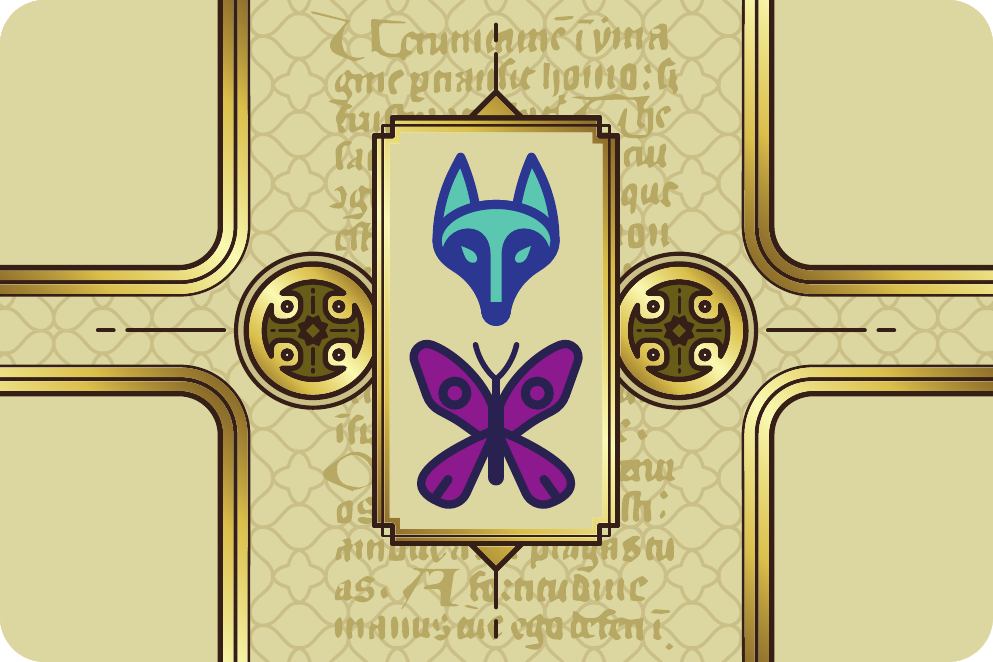
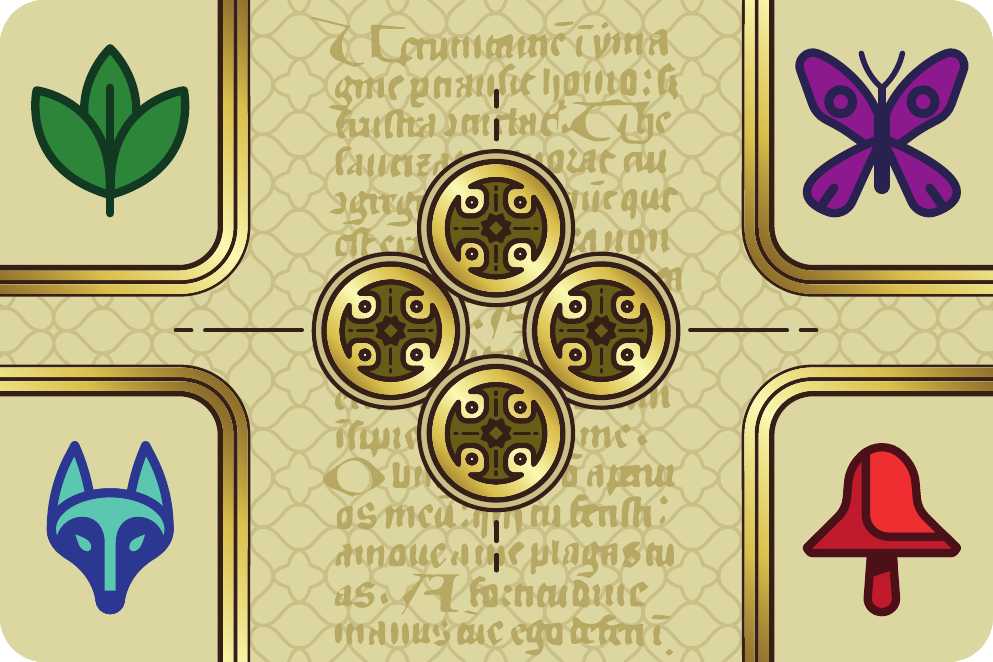
Slightly improved GUI graphics (centered field contained in ScrollPane, made openCorners transparent) and added graphics for chat (ugly, but working). Inverted images for front and back of InitialCards and fixed a little bug in passing inHandPosition parameter to placeCard commands

diff --git a/src/main/java/it/polimi/ingsw/gc12/Client/ClientView/GUI/GUIView.java b/src/main/java/it/polimi/ingsw/gc12/Client/ClientView/GUI/GUIView.java
@@ -7,6 +7,7 @@ import it.polimi.ingsw.gc12.Model.ClientModel.ClientCard;
 import it.polimi.ingsw.gc12.Model.ClientModel.ClientGame;
 import it.polimi.ingsw.gc12.Model.ClientModel.ClientPlayer;
 import it.polimi.ingsw.gc12.Model.GameLobby;
+import it.polimi.ingsw.gc12.Model.Player;
 import it.polimi.ingsw.gc12.Utilities.GenericPair;
 import it.polimi.ingsw.gc12.Utilities.Side;
 import it.polimi.ingsw.gc12.Utilities.Triplet;
@@ -27,6 +28,7 @@ import javafx.scene.layout.AnchorPane;
 import javafx.scene.layout.HBox;
 import javafx.scene.layout.StackPane;
 import javafx.scene.layout.VBox;
+import javafx.scene.paint.Color;
 import javafx.scene.shape.Rectangle;
 import javafx.scene.text.TextAlignment;
 import javafx.stage.Popup;
@@ -38,11 +40,10 @@ import java.util.ArrayList;
 import java.util.List;
 import java.util.UUID;
 
+//FIXME: consider removing some Platform.runLater() and restricting some of them to necessary actions only
 public class GUIView extends View {
 
     private static GUIView SINGLETON_GUI_INSTANCE = null;
-
-    String resourcesPath = System.getProperty("user.dir") + "/src/main/resources/";
 
     Stage stage;
     ObservableList<String> connectionList = FXCollections.observableArrayList("Socket", "RMI");
@@ -178,7 +179,6 @@ public class GUIView extends View {
 
         //TODO: al posto della lingua, far inserire indirizzo IP del server!
         TextField addressField = (TextField) fxmlLoader.getNamespace().get("addressField");
-        addressField.setText("localhost");
 
         ComboBox<String> connection = (ComboBox<String>) fxmlLoader.getNamespace().get("connection");
         connection.setValue("Select communication technology");
@@ -233,8 +233,7 @@ public class GUIView extends View {
         }
 
         if (addressField.getText().isEmpty()) {
-            error.setText("Selezionare un indirizzo IP per il server prima di proseguire");
-            return;
+            addressField.setText("localhost");
         }
 
         FXMLLoader fxmlLoader = new FXMLLoader(getClass().getResource("/fxml/waiting_for_connection.fxml"));
@@ -267,7 +266,7 @@ public class GUIView extends View {
 
     @Override
     public void connectedConfirmation() {
-
+        //TODO: maybe consider deleting this for TUI also?
     }
 
     @Override
@@ -386,7 +385,6 @@ public class GUIView extends View {
                 throw new RuntimeException(e);
             }
 
-
 //            double screenHeight = Screen.getPrimary().getVisualBounds().getHeight();
 //            double screenWidth = Screen.getPrimary().getVisualBounds().getWidth();
 //
@@ -397,8 +395,12 @@ public class GUIView extends View {
 
             stage.getScene().setRoot(root);
 
-//            Button leaveGame = (Button) fxmlLoader.getNamespace().get("leaveButton");
-//            Button chat = (Button) fxmlLoader.getNamespace().get("chatButton");
+            Button leaveButton = (Button) fxmlLoader.getNamespace().get("leaveButton");
+            leaveButton.setOnMouseClicked((event) -> ClientController.getInstance().viewState.quit());
+
+            Button chatButton = (Button) fxmlLoader.getNamespace().get("chatButton");
+            chatButton.setOnMouseClicked((event) -> showChat());
+
 //            ImageView score = (ImageView) fxmlLoader.getNamespace().get("score");
 //            ImageView objective = (ImageView) fxmlLoader.getNamespace().get("objective");
 //            ImageView resource = (ImageView) fxmlLoader.getNamespace().get("resource");
@@ -423,7 +425,48 @@ public class GUIView extends View {
     }
 
     @Override
-    public void updateChat() {
+    public void showChat() {
+        Platform.runLater(() -> {
+            //TODO: maybe perform chatPane initialization only at the start of a game instead of everytime?
+            AnchorPane chatPane = (AnchorPane) stage.getScene().lookup("#chatPane");
+            VBox messagesBox = (VBox) chatPane.lookup("#messagesBox");
+            ComboBox<String> receiverNicknameSelector = (ComboBox<String>) chatPane.lookup("#receiverSelector");
+            TextField messageText = (TextField) chatPane.lookup("#messageText");
+            Button hideButton = (Button) chatPane.lookup("#hideButton");
+            Button sendButton = (Button) chatPane.lookup("#sendButton");
+
+            ClientGame thisGame = ClientController.getInstance().viewModel.getGame();
+
+
+            //TODO: invece di ricrearlo ogni volta, salvarlo e updatarlo?
+            for (var message : thisGame.getChatLog()) {
+                messagesBox.getChildren().add(createMessageElement(message));
+            }
+
+            List<String> nicknames = thisGame.getPlayers().stream().map(Player::getNickname).collect(ArrayList::new, ArrayList::add, ArrayList::addAll);
+            nicknames.addFirst("everyone");
+            nicknames.remove(ClientController.getInstance().viewModel.getOwnNickname());
+            ObservableList<String> receiverNicknames = FXCollections.observableList(nicknames);
+            receiverNicknameSelector.setItems(receiverNicknames);
+
+            hideButton.setOnMouseClicked((event) -> chatPane.setVisible(false));
+
+            sendButton.setOnMouseClicked((event) -> {
+                String receiver = receiverNicknameSelector.getValue();
+                String message = messageText.getText().trim();
+                //FIXME: aggiungere lunghezza massima e substring anche qui? Magari aggiungerle ma più di 150 chars?
+                if (receiver.equals("everyone"))
+                    ClientController.getInstance().viewState.broadcastMessage(message);
+                else
+                    ClientController.getInstance().viewState.directMessage(receiver, message);
+            });
+
+            chatPane.setVisible(true);
+            chatPane.toFront();
+        });
+    }
+
+    public void showOpponentsFieldMiniaturized() {
 
     }
 
@@ -469,7 +512,7 @@ public class GUIView extends View {
                     backCardView.setPreserveRatio(true);
 
                     frontCardView.setOnMouseClicked((event) -> {
-                        ClientController.getInstance().viewState.placeCard(new GenericPair<>(0, 0), 0, Side.FRONT);
+                        ClientController.getInstance().viewState.placeCard(new GenericPair<>(0, 0), 1, Side.FRONT);
                         initialCardsChoicePopup.hide();
                         currentPane.getChildren().remove(darkening);
                         currentPane.getChildren().remove(initialCardsChoicePopup);
@@ -477,7 +520,7 @@ public class GUIView extends View {
                     });
 
                     backCardView.setOnMouseClicked((event) -> {
-                        ClientController.getInstance().viewState.placeCard(new GenericPair<>(0, 0), 0, Side.BACK);
+                        ClientController.getInstance().viewState.placeCard(new GenericPair<>(0, 0), 1, Side.BACK);
                         initialCardsChoicePopup.hide();
                         currentPane.getChildren().remove(darkening);
                         currentPane.getChildren().remove(initialCardsChoicePopup);
@@ -572,7 +615,7 @@ public class GUIView extends View {
                         ClientCard card = cardsInHand.get(i);
                         AnchorPane pane = new AnchorPane();
 
-                        pane.setPrefSize(handPaneHeight, handPaneWidth / 3);  //FIXME: Diviso 3? (cardInHand.size()?)
+                        pane.setPrefSize(handPaneWidth / 3, handPaneHeight);  //FIXME: Diviso 3? (cardInHand.size()?)
                         pane.setStyle("-fx-background-color: darkorange;");
 
                         //FIXME: mappa anche per gli sprite GUI come sprite TUI? altrimenti card.XXX_SPRITE
@@ -764,7 +807,8 @@ public class GUIView extends View {
                 var openCornerShape = new Rectangle(100, 66) {
                     public final GenericPair<Integer, Integer> COORDINATES = openCorner;
                 };
-                openCornerShape.setStyle("-fx-background-color: transparent; -fx-stroke: black; -fx-stroke-width: 2; -fx-stroke-dash-array: 4 4;");
+                openCornerShape.setFill(Color.TRANSPARENT);
+                openCornerShape.setStyle("-fx-stroke: black; -fx-stroke-width: 2; -fx-stroke-dash-array: 4 4;");
 
                 openCornerShape.setOnDragOver((event) -> {
                     //TODO: implement visual effects
@@ -781,7 +825,6 @@ public class GUIView extends View {
                                 placeCardData.getX(),
                                 placeCardData.getY()
                         );
-                        System.out.println("Card in hand position " + placeCardData.getX() + " placed in position " + openCornerShape.COORDINATES + " on side " + placeCardData.getY());
                         event.setDropCompleted(event.getDragboard().hasContent(placeCardDataFormat));
                     }
                 });
@@ -794,19 +837,9 @@ public class GUIView extends View {
                 );
             }
 
-            /*for (int i = 0; i < 5; i++) {
-                Rectangle openCornerShape = new Rectangle(60, 24);
-                openCornerShape.setStyle("-fx-fill: lightgray; -fx-stroke: black; -fx-stroke-width: 1; -fx-stroke-dash-array: 2 2;");
-
-                clippedPane.getChildren().add(openCornerShape);
-
-                openCornerShape.relocate(
-                        i * 50,
-                        i * 10
-                );
-            }*/
-
             ownFieldPane.setContent(clippedPane);
+            ownFieldPane.setHvalue((ownFieldPane.getHmax() + ownFieldPane.getHmin()) / 2);
+            ownFieldPane.setVvalue((ownFieldPane.getVmax() + ownFieldPane.getVmin()) / 2);
         });
     }
 
@@ -861,5 +894,53 @@ public class GUIView extends View {
         lobbyBox.getChildren().add(playerCount);
 
         return lobbyBox;
+    }
+
+    //FIXME: separate parameter receiver from message both in signature here, in TUI and in viewModel?
+    private HBox createMessageElement(String message) {
+        String style = "-fx-background-color: white; -fx-border-color: black; -fx-border-width: 1; -fx-padding: 10;";
+
+        // Box
+        HBox messageBox = new HBox(250);
+        messageBox.setPadding(new Insets(15, 12, 15, 12));
+
+        /*
+        // Label messaggio
+        Label playerCount = new Label(String.valueOf(message.));
+        playerCount.setStyle("-fx-font-size: 16px;");
+
+        // Label nomi
+        for (var player : lobby.getPlayers()) {
+            Label playerName = new Label(player.getNickname());
+            playerName.setStyle("-fx-font-size: 14px;");
+            lobbyBox.getChildren().add(playerName);
+        }
+
+        lobbyBox.setStyle(style);
+
+        if (ClientController.getInstance().viewModel.getCurrentLobby() == null) {
+            Button joinButton = new Button("JOIN");
+            joinButton.setOnAction(e ->
+                    {
+                        ClientController.getInstance().viewState.joinLobby(lobbyUUID);
+                    }
+            );
+            lobbyBox.getChildren().add(joinButton);
+        } else {
+            if (ClientController.getInstance().viewModel.getCurrentLobby().equals(lobby)) {
+                Button leaveButton = new Button("LEAVE");
+                leaveButton.setOnAction(e ->
+                        {
+                            ClientController.getInstance().viewState.leaveLobby();
+                        }
+                );
+                lobbyBox.getChildren().add(leaveButton);
+            }
+        }
+
+        lobbyBox.getChildren().add(playerCount);
+         */
+
+        return messageBox;
     }
 }

diff --git a/src/main/java/it/polimi/ingsw/gc12/Client/ClientView/TUI/TUIView.java b/src/main/java/it/polimi/ingsw/gc12/Client/ClientView/TUI/TUIView.java
@@ -240,7 +240,7 @@ public class TUIView extends View {
         printOpponentsFieldsMiniaturized();
         showField(ClientController.getInstance().viewModel.getGame().getThisPlayer());
         showHand();
-        updateChat();
+        showChat();
 
         //FIXME: eventuale showOpponentField <opponentName>???
         //FIXME: al momento comandi filtrati per stato di gioco, replicati in ogni viewState, orribile anche perchè alla GUI non servono...
@@ -376,7 +376,7 @@ public class TUIView extends View {
     }
 
     //TODO: controllare che sia fixata la lunghezza massima del messaggio (70+80 = 150 caratteri vanno bene?)
-    public void updateChat() {
+    public void showChat() {
         List<String> chatLog = ClientController.getInstance().viewModel.getGame().getChatLog();
         printToPosition(ansi().cursor(2, 120).bold().a("Last chat messages: ").reset());
         for (int i = 0; i < 3; i++)

diff --git a/src/main/java/it/polimi/ingsw/gc12/Client/ClientView/TUI/TUIListener.java b/src/main/java/it/polimi/ingsw/gc12/Client/ClientView/TUI/TUIListener.java
@@ -93,11 +93,11 @@ public class TUIListener {
                     );
                 }
                 case "pickInitial" ->
-                        currentState.placeCard(new GenericPair<>(0, 0), 0, convertSide(tokens.removeFirst()));
+                        currentState.placeCard(new GenericPair<>(0, 0), 1, convertSide(tokens.removeFirst()));
                 case "placeCard" ->
                     currentState.placeCard(
                             new GenericPair<>(Integer.parseInt(tokens.removeFirst()), Integer.parseInt(tokens.removeFirst())),
-                            Integer.parseInt(tokens.removeFirst()) - 1,
+                            Integer.parseInt(tokens.removeFirst()),
                             convertSide(tokens.removeFirst())
                     );
                 case "pickObjective" -> currentState.pickObjective(Integer.parseInt(tokens.removeFirst()));

diff --git a/src/main/java/it/polimi/ingsw/gc12/Client/ClientView/ViewStates/GameStates/GameScreenState.java b/src/main/java/it/polimi/ingsw/gc12/Client/ClientView/ViewStates/GameStates/GameScreenState.java
@@ -53,7 +53,7 @@ public abstract class GameScreenState extends ViewState {
             ClientController.getInstance().viewModel.getGame().addMessageToChatLog(message.substring(0, 90));
             ClientController.getInstance().viewModel.getGame().addMessageToChatLog(message.substring(90));
         }
-        ClientController.getInstance().view.updateChat();
+        ClientController.getInstance().view.showChat();
     }
 
     @Override

diff --git a/src/main/java/it/polimi/ingsw/gc12/Client/ClientView/ViewStates/GameStates/PlayerTurnPlayState.java b/src/main/java/it/polimi/ingsw/gc12/Client/ClientView/ViewStates/GameStates/PlayerTurnPlayState.java
@@ -35,7 +35,7 @@ public class PlayerTurnPlayState extends GameScreenState {
 
     @Override
     public void placeCard(GenericPair<Integer, Integer> coordinates, int inHandPosition, Side playedSide) {
-        sendCardToPlace(coordinates, inHandPosition, playedSide);
+        sendCardToPlace(coordinates, inHandPosition - 1, playedSide);
     }
 
     public void showField(int playerID) {

diff --git a/src/main/java/it/polimi/ingsw/gc12/Client/ClientView/ViewStates/GameStates/ChooseInitialCardsState.java b/src/main/java/it/polimi/ingsw/gc12/Client/ClientView/ViewStates/GameStates/ChooseInitialCardsState.java
@@ -25,7 +25,7 @@ public class ChooseInitialCardsState extends GameScreenState{
 
     @Override
     public void placeCard(GenericPair<Integer, Integer> coordinates, int inHandPosition, Side playedSide) {
-        sendCardToPlace(coordinates, inHandPosition, playedSide);
+        sendCardToPlace(coordinates, inHandPosition - 1, playedSide);
     }
 
     @Override

diff --git a/src/main/java/it/polimi/ingsw/gc12/Client/ClientView/View.java b/src/main/java/it/polimi/ingsw/gc12/Client/ClientView/View.java
@@ -21,7 +21,7 @@ public abstract class View { //FIXME: turn into interface maybe?
 
     public abstract void updateNickname();
 
-    public abstract void updateChat();
+    public abstract void showChat();
 
     public abstract void showInitialCardsChoice();
 
